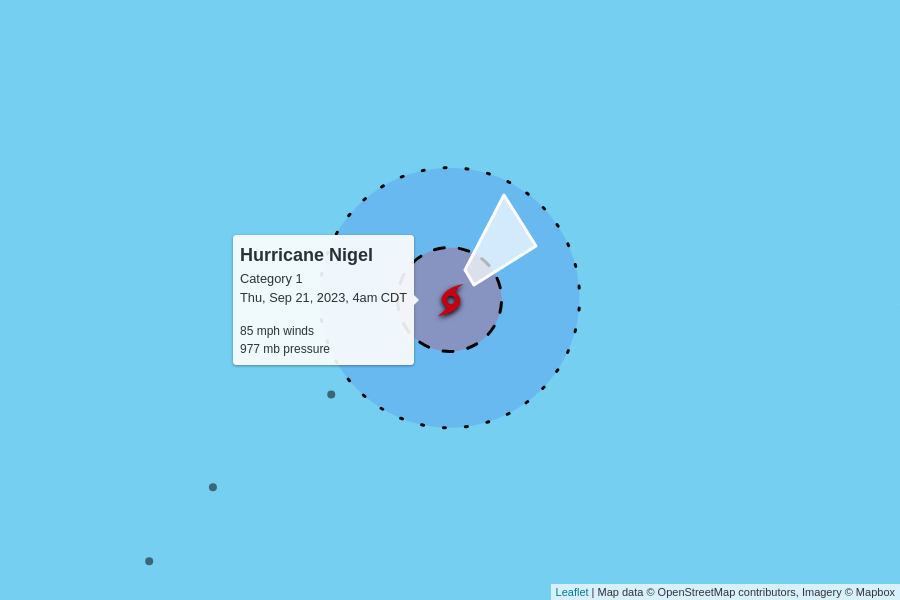
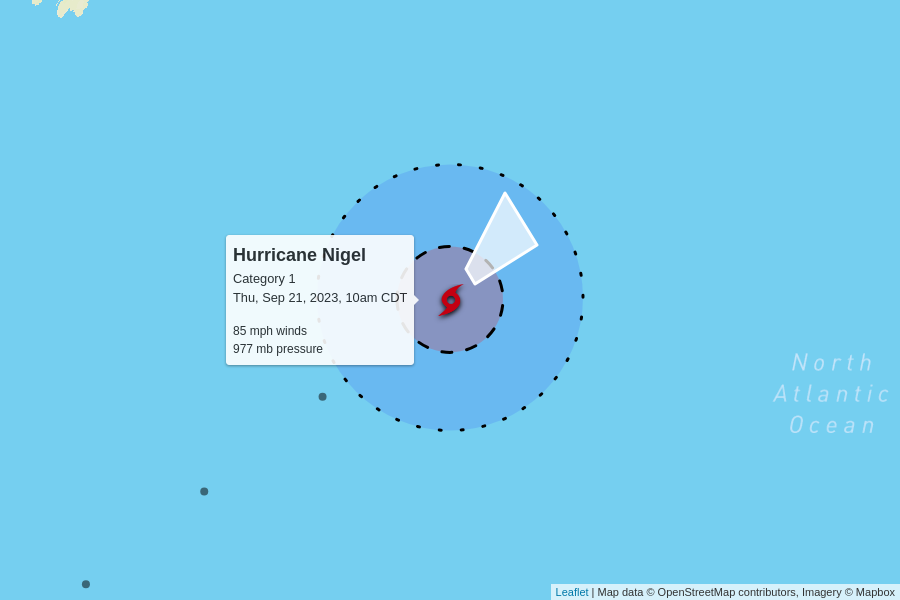
automatic update

diff --git a/docs/index.html b/docs/index.html
@@ -96,13 +96,15 @@
     </p>
 
     
+    <h2>2 active storms</h2>
+    <img src="active.png">
 
     <table>
       <tr>
         <td colspan="6" class="storm category-1" >
           <h2>
             Hurricane Nigel - Category 1
-            <p class="updated">last updated <span data-time>2023-09-21T09:00:00.000Z</span></p>
+            <p class="updated">last updated <span data-time>2023-09-21T15:00:00.000Z</span></p>
           </h2>
         </td>
       </tr>
@@ -117,8 +119,8 @@
       </tr>
       <tr>
         <td class="spacer"></td>
-        <td>85 mph<br>-5 mph since last update</td>
-        <td>977 mb<br>+4 mb since last update</td>
+        <td>85 mph<br>0 mph since last update</td>
+        <td>977 mb<br>0 mb since last update</td>
         <td>
           30 mph to the northeast
           <br/>
@@ -132,6 +134,50 @@
         <td colspan="5">
           <figure>
             <img src="AL152023.png">
+            <figcaption>
+              Map data &copy; <a href="https://www.openstreetmap.org/copyright">OpenStreetMap</a> contributors,
+              Imagery &copy; <a href="https://www.mapbox.com/">Mapbox</a> |
+              <a href="https://www.mapbox.com/map-feedback/" target="_blank">Improve this map</a>
+            </figcaption>
+          </figure>
+        </td>
+      </tr>
+      
+
+      <tr>
+        <td colspan="6" class="storm category-0" >
+          <h2>
+            Potential Tropical Cyclone Sixteen
+            <p class="updated">last updated <span data-time>2023-09-21T15:00:00.000Z</span></p>
+          </h2>
+        </td>
+      </tr>
+      
+      <tr>
+        <th class="spacer"></th>
+        <th>wind speed</th>
+        <th>central pressure</th>
+        <th>movement</th>
+        <th>data (CSV)</th>
+        <th>National Hurricane Center</th>
+      </tr>
+      <tr>
+        <td class="spacer"></td>
+        <td>35 mph</td>
+        <td>1012 mb</td>
+        <td>
+          9 mph to the north
+          <br/>
+          <span style="display: inline-block; font-size: 1.5em; transform: rotate(10deg);">↑</span>
+        </td>
+        <td><a href="https://raw.githubusercontent.com/mgwalker/atlantic-hurricanes/main/data/csv/AL162023.csv">AL162023.csv</a></td>
+        <td><a href="https://www.nhc.noaa.gov/archive/2023/SIXTEEN.shtml?">NHC advisories</a></td>
+      </tr>
+      <tr id="storm_AL162023" >
+        <td class="spacer">
+        <td colspan="5">
+          <figure>
+            <img src="AL162023.png">
             <figcaption>
               Map data &copy; <a href="https://www.openstreetmap.org/copyright">OpenStreetMap</a> contributors,
               Imagery &copy; <a href="https://www.mapbox.com/">Mapbox</a> |
